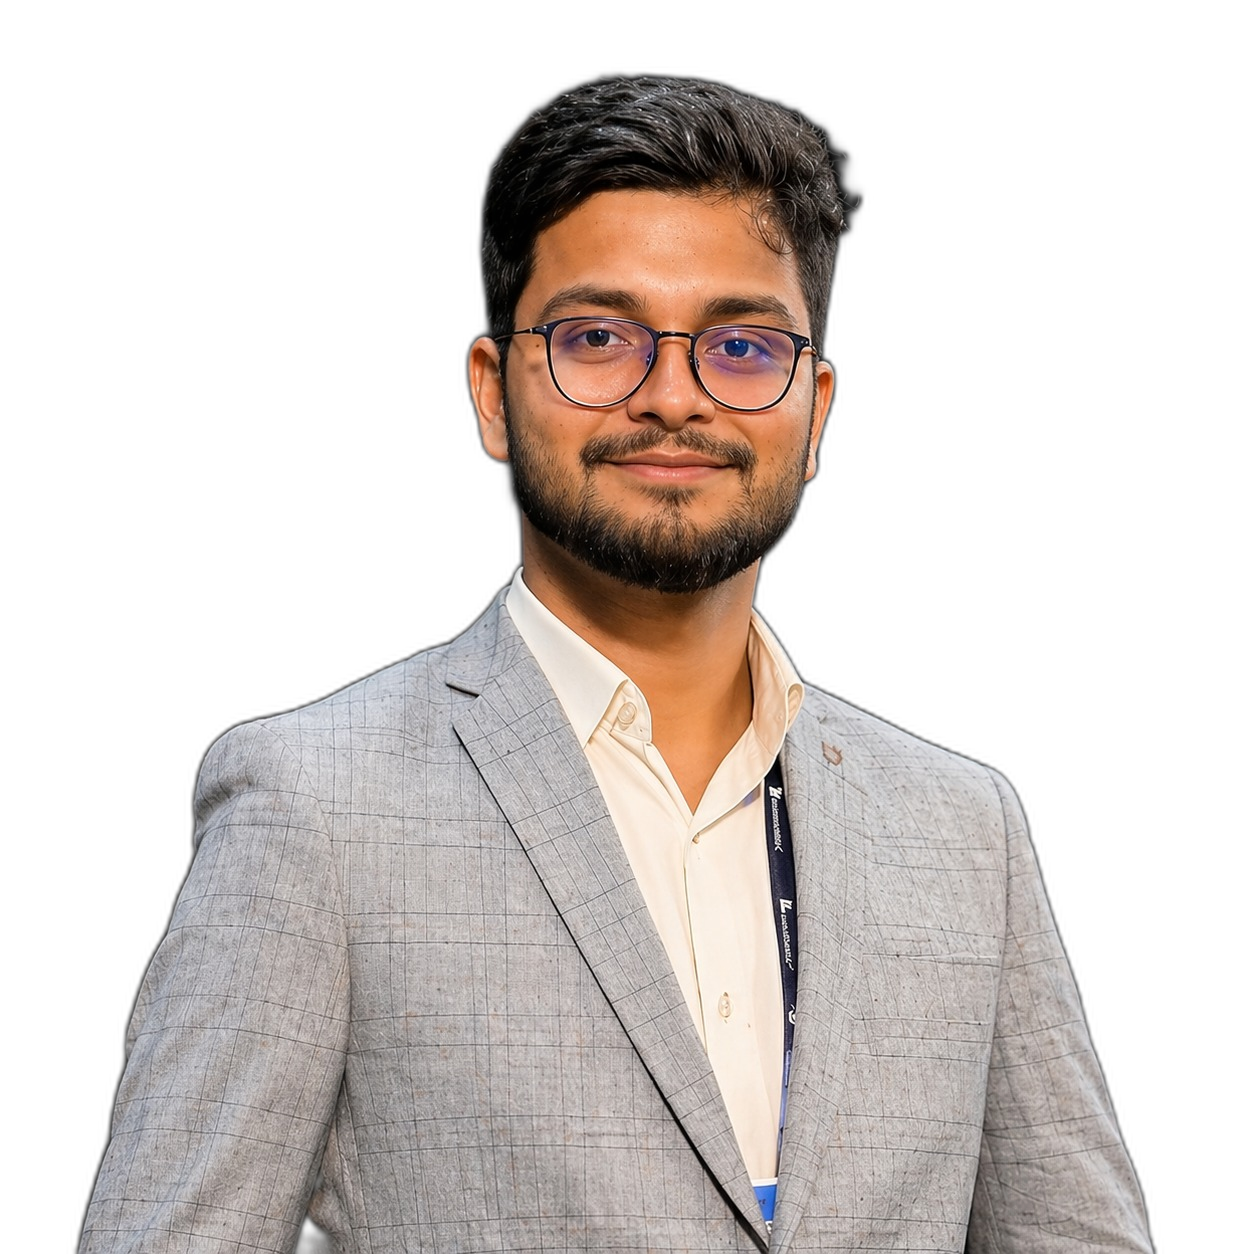
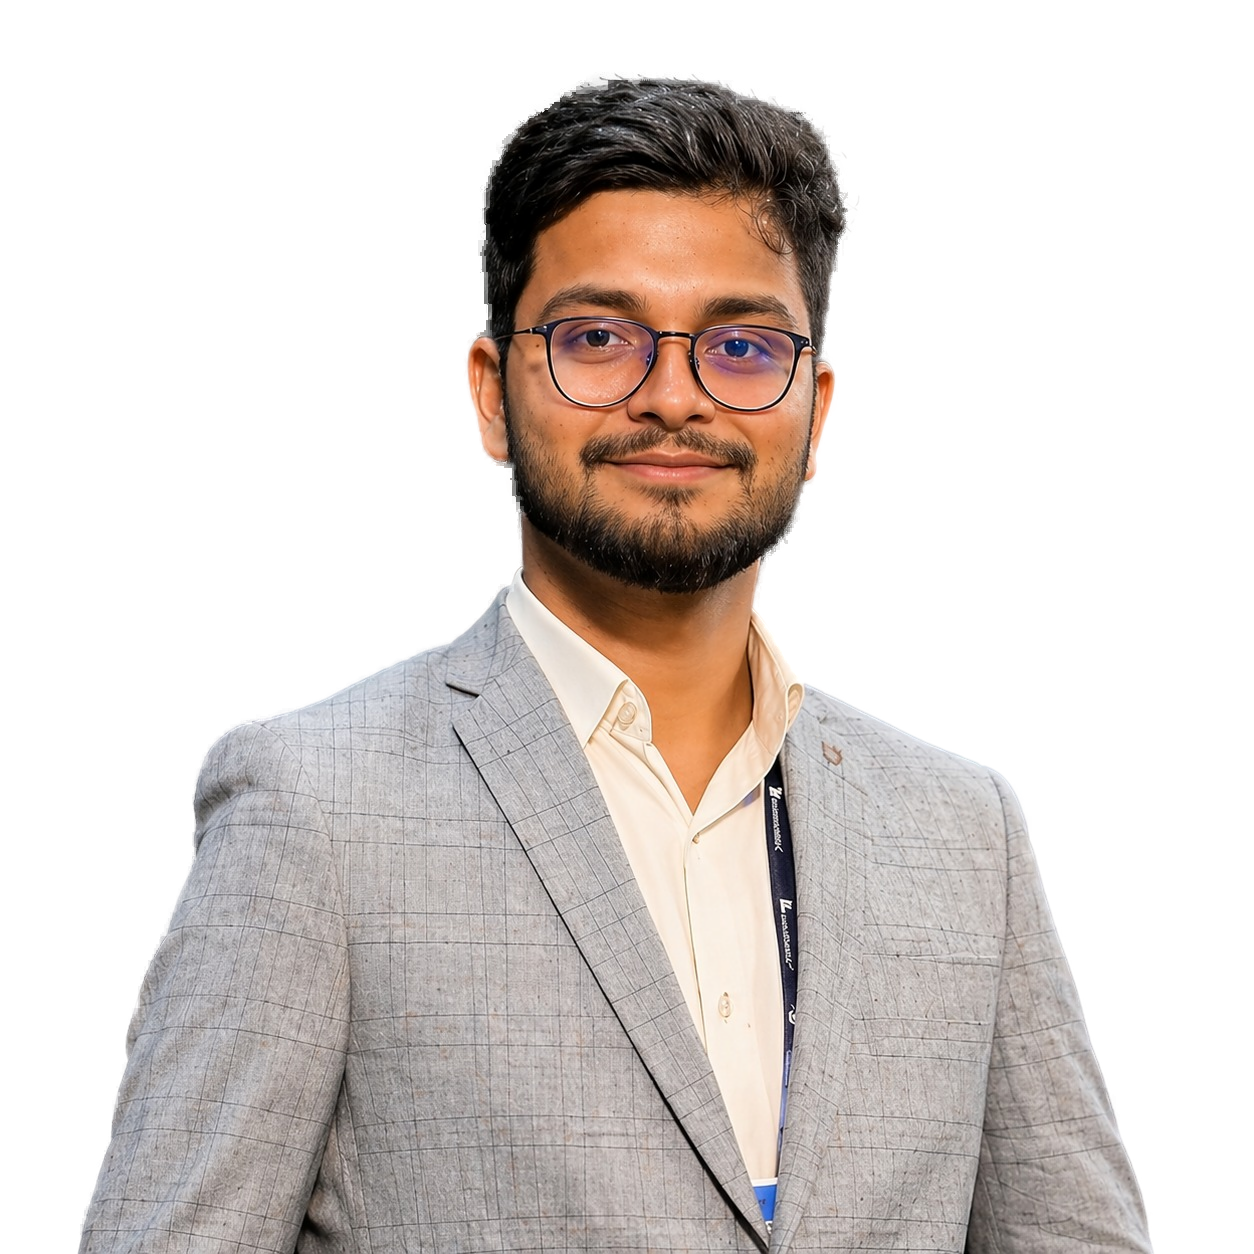
fix(hero): use isnet+alpha matting for clean transparent cutout
Default u2net model couldn't separate the grey suit from the dark
backdrop. Switch to isnet-general-use with alpha matting for crisp
edges and a fully transparent background.

diff --git a/scripts/make-light-headshot.py b/scripts/make-light-headshot.py
@@ -5,7 +5,7 @@ subject sits directly on the page gradient (no rectangular "card" outline).
 """
 from pathlib import Path
 from PIL import Image
-from rembg import remove
+from rembg import remove, new_session
 
 ROOT = Path(__file__).resolve().parent.parent
 SRC = ROOT / "public" / "images" / "headshot.jpg"
@@ -16,8 +16,16 @@ src = Image.open(SRC).convert("RGBA")
 w, h = src.size
 print(f"Size: {w}x{h}")
 
-print("Removing background...")
-cutout = remove(src)
+print("Removing background (isnet-general-use, alpha matting)...")
+session = new_session("isnet-general-use")
+cutout = remove(
+    src,
+    session=session,
+    alpha_matting=True,
+    alpha_matting_foreground_threshold=240,
+    alpha_matting_background_threshold=20,
+    alpha_matting_erode_size=10,
+)
 
 print(f"Writing: {OUT}")
 cutout.save(OUT, "PNG", optimize=True)
